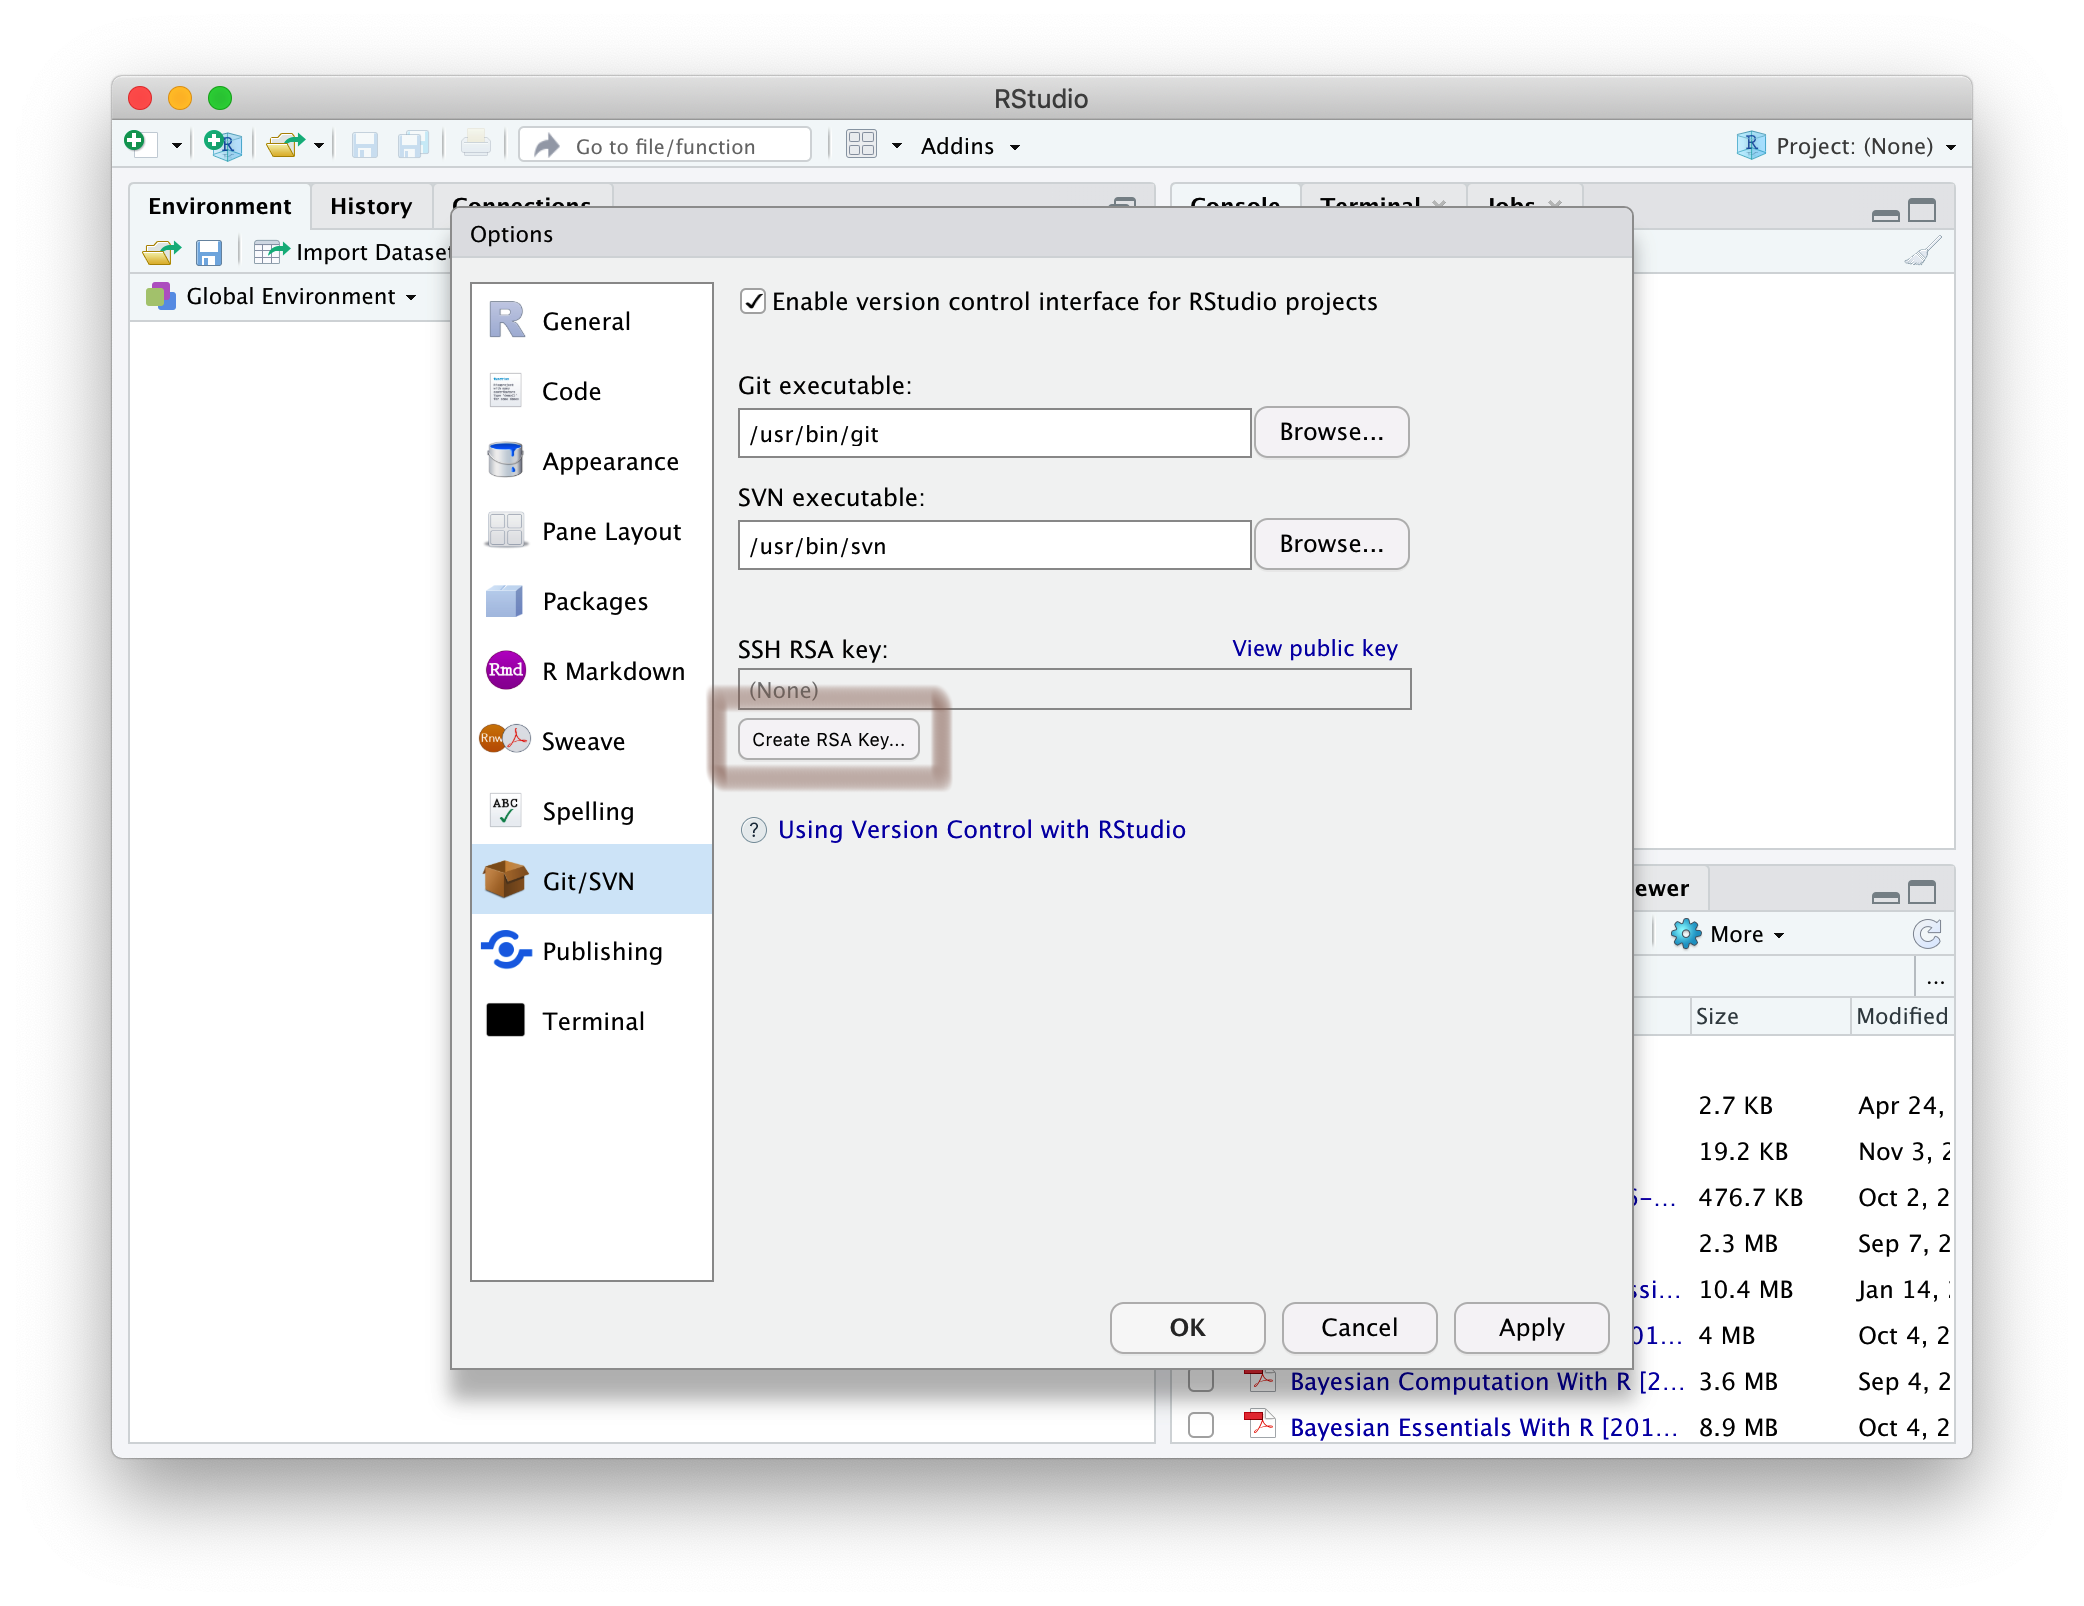
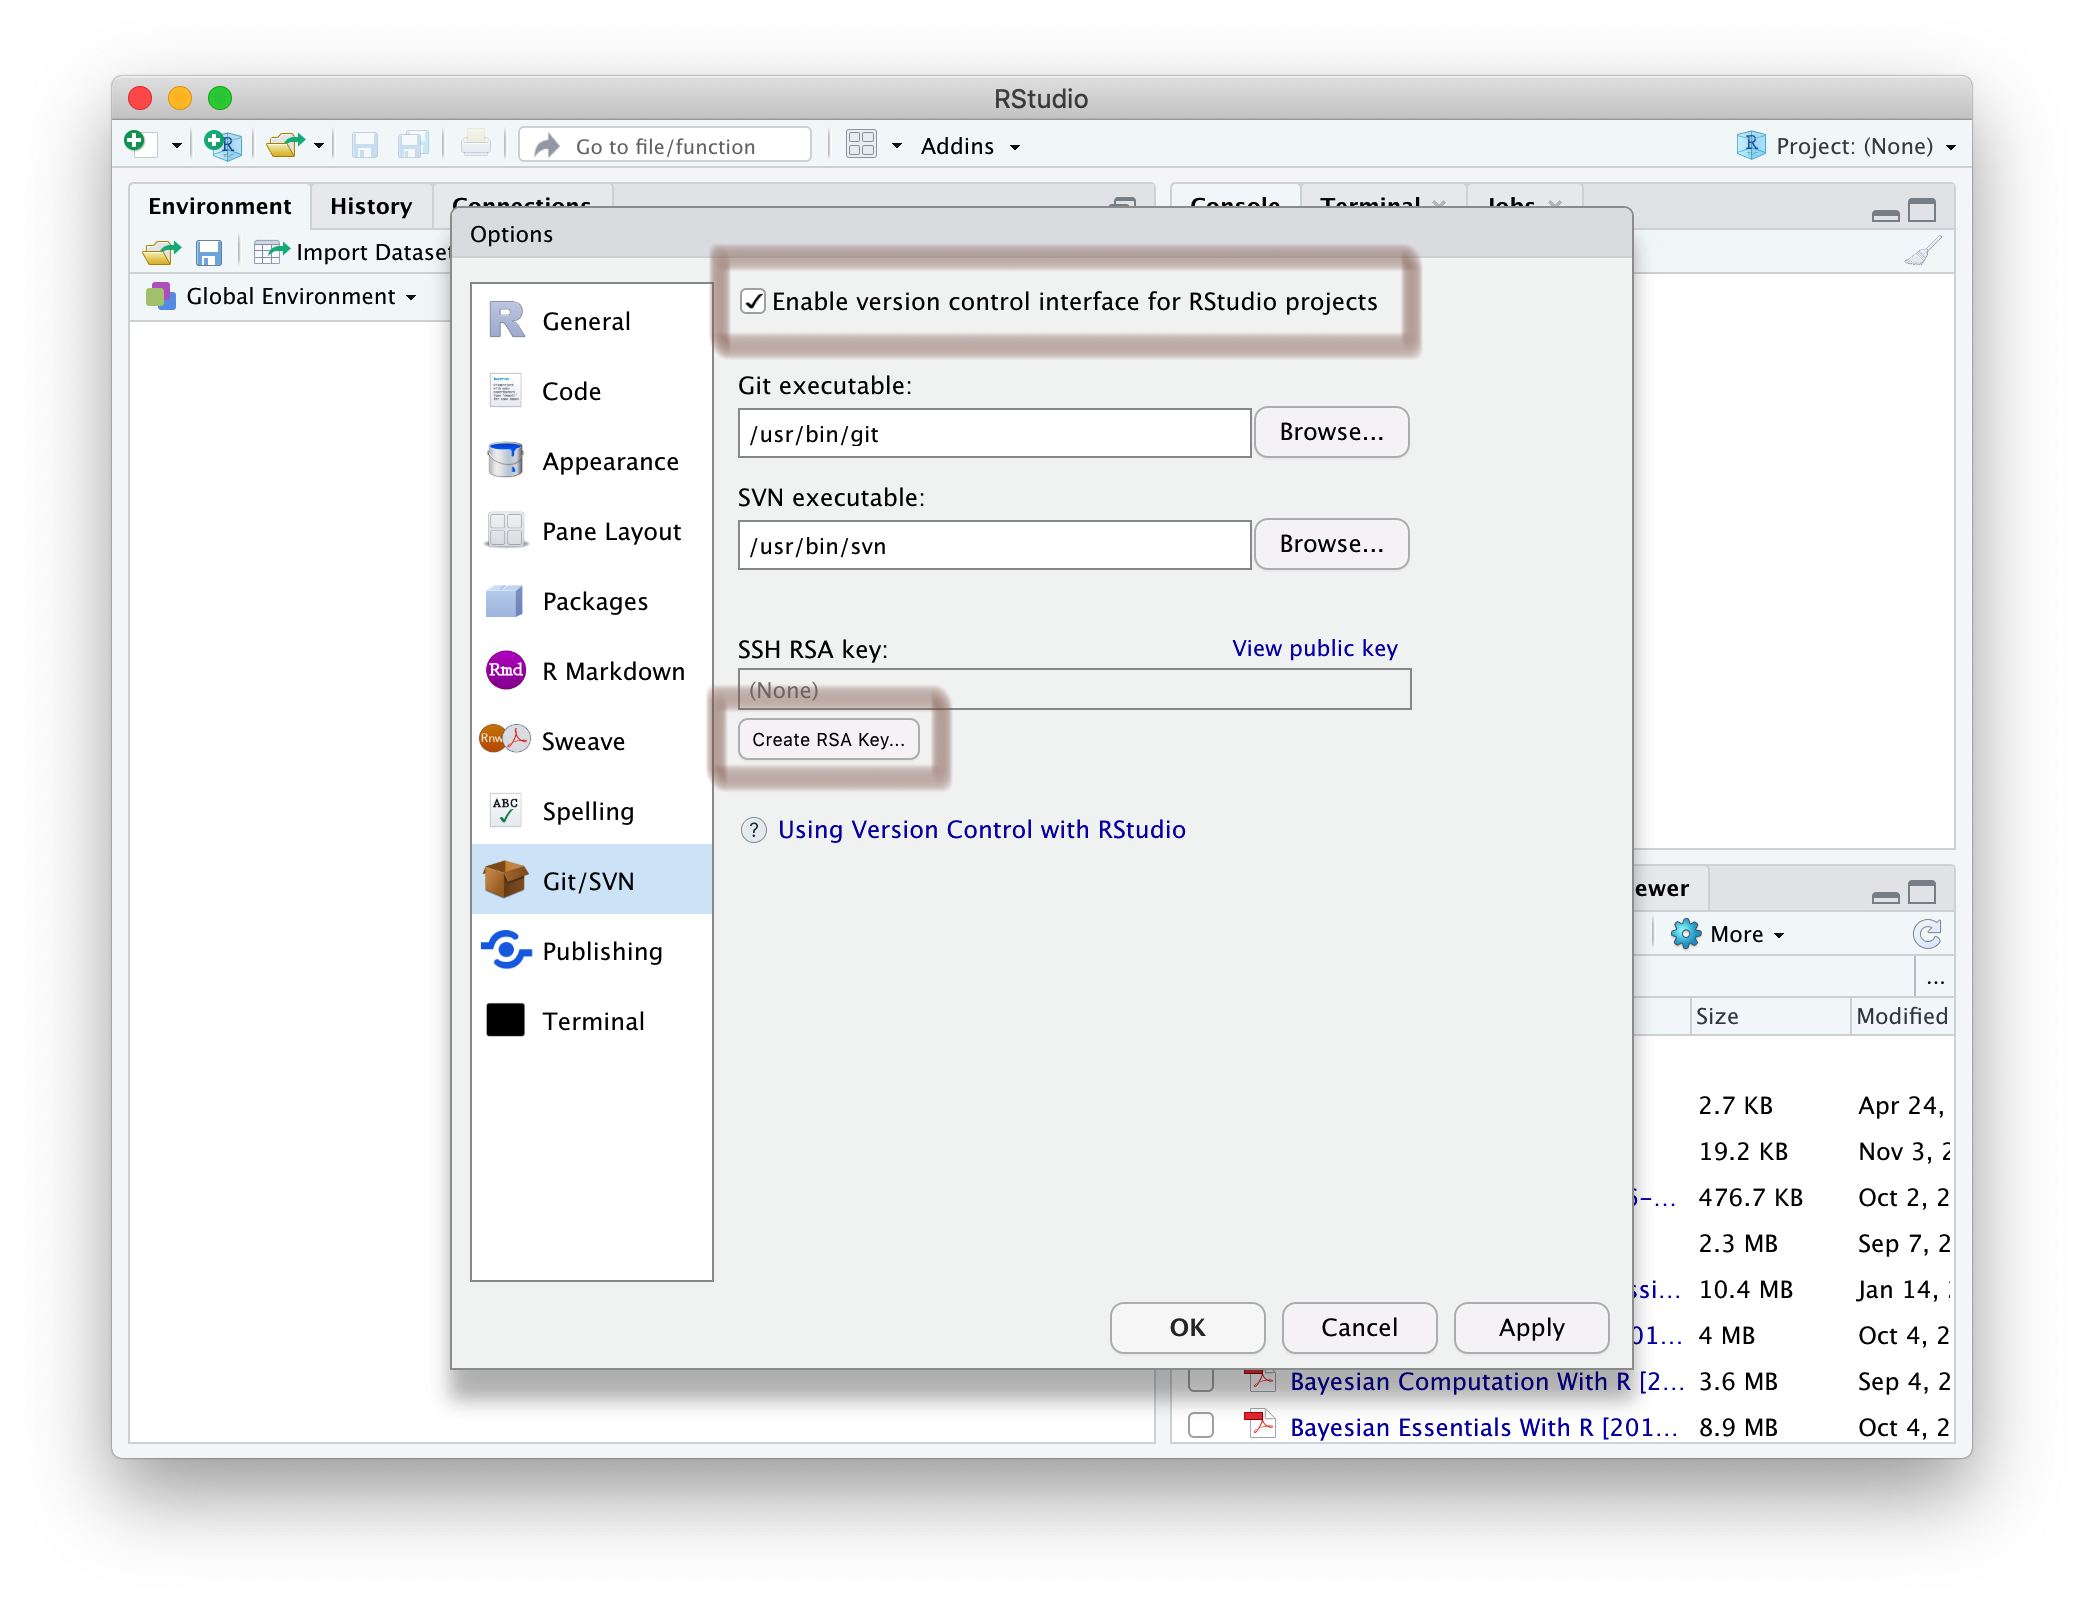
Edit readme

Changed region(s): [[0.3431, 0.1557, 0.6862, 0.2491]]

diff --git a/README.md b/README.md
@@ -1,18 +1,26 @@
 # GitHub tutorial (for RStudio)
 
-
 ## Setup Git on RStudio
 
-First, we're now going to encrypt communication between our laptops and GitHub. To do 
-this we need to generate a certificate. In RStudio, click on the **RStudio** menu bar and go to **Preferences**
+
+
+In RStudio, click on the 
+**RStudio** menu bar and go to **Preferences**
 
 <img src="https://github.com/mysteryduck/github/blob/master/img/0-1.png" height="200">
 
-Go down to the **GIT/SVN** tab and click on **Create RSA Key...**
+Go down to the **GIT/SVN** tab and ensure **Enable version control interface for RStudio projects** is checked.
+ 
+Note that clicking on the **Using Version Control with RStudio** link will take 
+you to a site that describes how to set up Git and lists some excellent 
+resources to help you learn more about Git. Ignore this for now. 
+
+Instead, we're now going to encrypt communication between our laptops and GitHub. 
+To do this we need to generate a certificate. Click on **Create RSA Key...**
 
 <img src="https://github.com/mysteryduck/github/blob/master/img/0-2.png" height="500">
 
-Click **Create** to generate your RSA key
+Now, click **Create** to generate your RSA key
 
 <img src="https://github.com/mysteryduck/github/blob/master/img/0-3.png" height="500">
 
@@ -36,10 +44,14 @@ Create a **New SSH key**
 
 <img src="https://github.com/mysteryduck/github/blob/master/img/0-8.png" height="500">
 
-Paste the RSA key from your clipboard into the box and **Add SSH key** to your GiHub account
+Paste the public key that you copied from RStudio into the box and click
+**Add SSH key** 
 
 <img src="https://github.com/mysteryduck/github/blob/master/img/0-9.png" height="500">
 
+
+
+## Setup Git on RStudio
 
 
 
